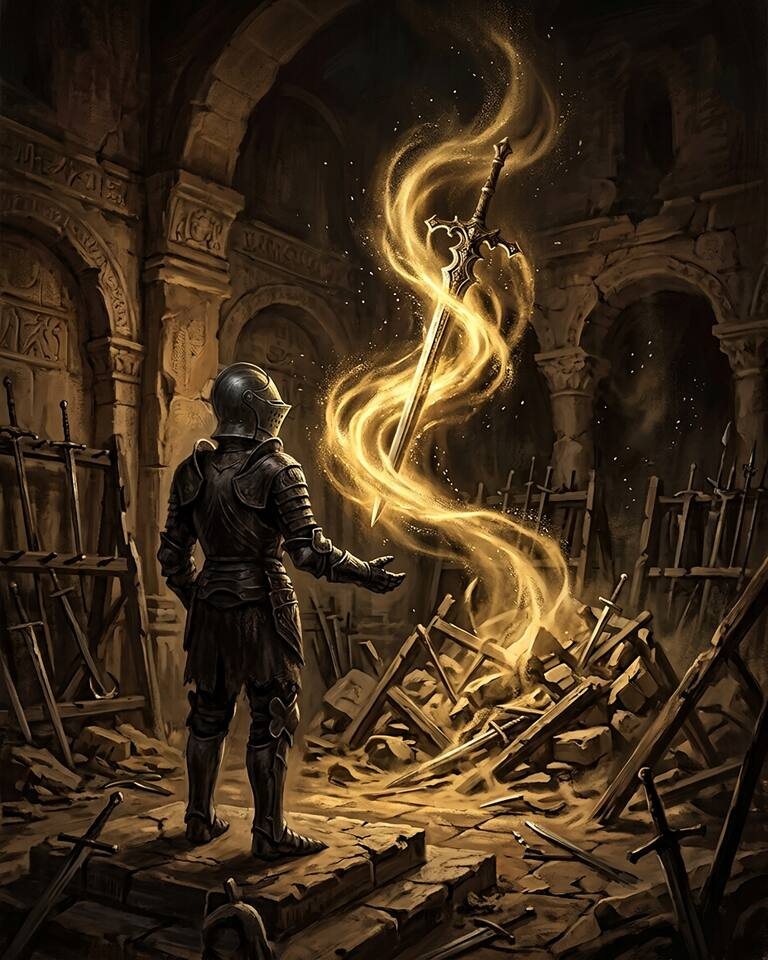
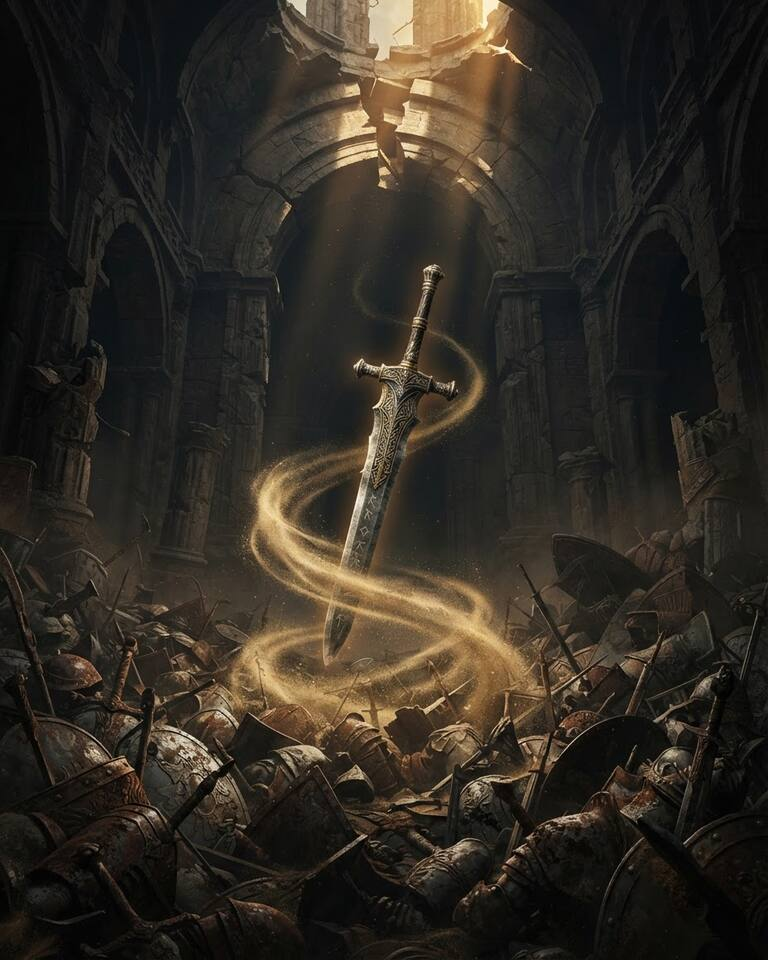
Recréer l’illustration de Mémoire de l’armurerie

diff --git a/src/games/rpgCardArt.js b/src/games/rpgCardArt.js
@@ -61,7 +61,7 @@ const SANS_TEINTE = 'sans-teinte-v1';
 
 const CARD_ART_CACHE_VERSIONS = {
   'guetteuse-des-marees': 'guetteuse-v1',
-  'memoire-de-l-armurerie': 'armurerie-v1',
+  'memoire-de-l-armurerie': 'armurerie-epique-v2',
   'rempart-des-sables-eternels': 'rempart-sables-v1',
   'effacement-des-faibles': 'sort-tenebres-v1',
   'le-jugement-des-colosses': 'sort-tenebres-v1',
